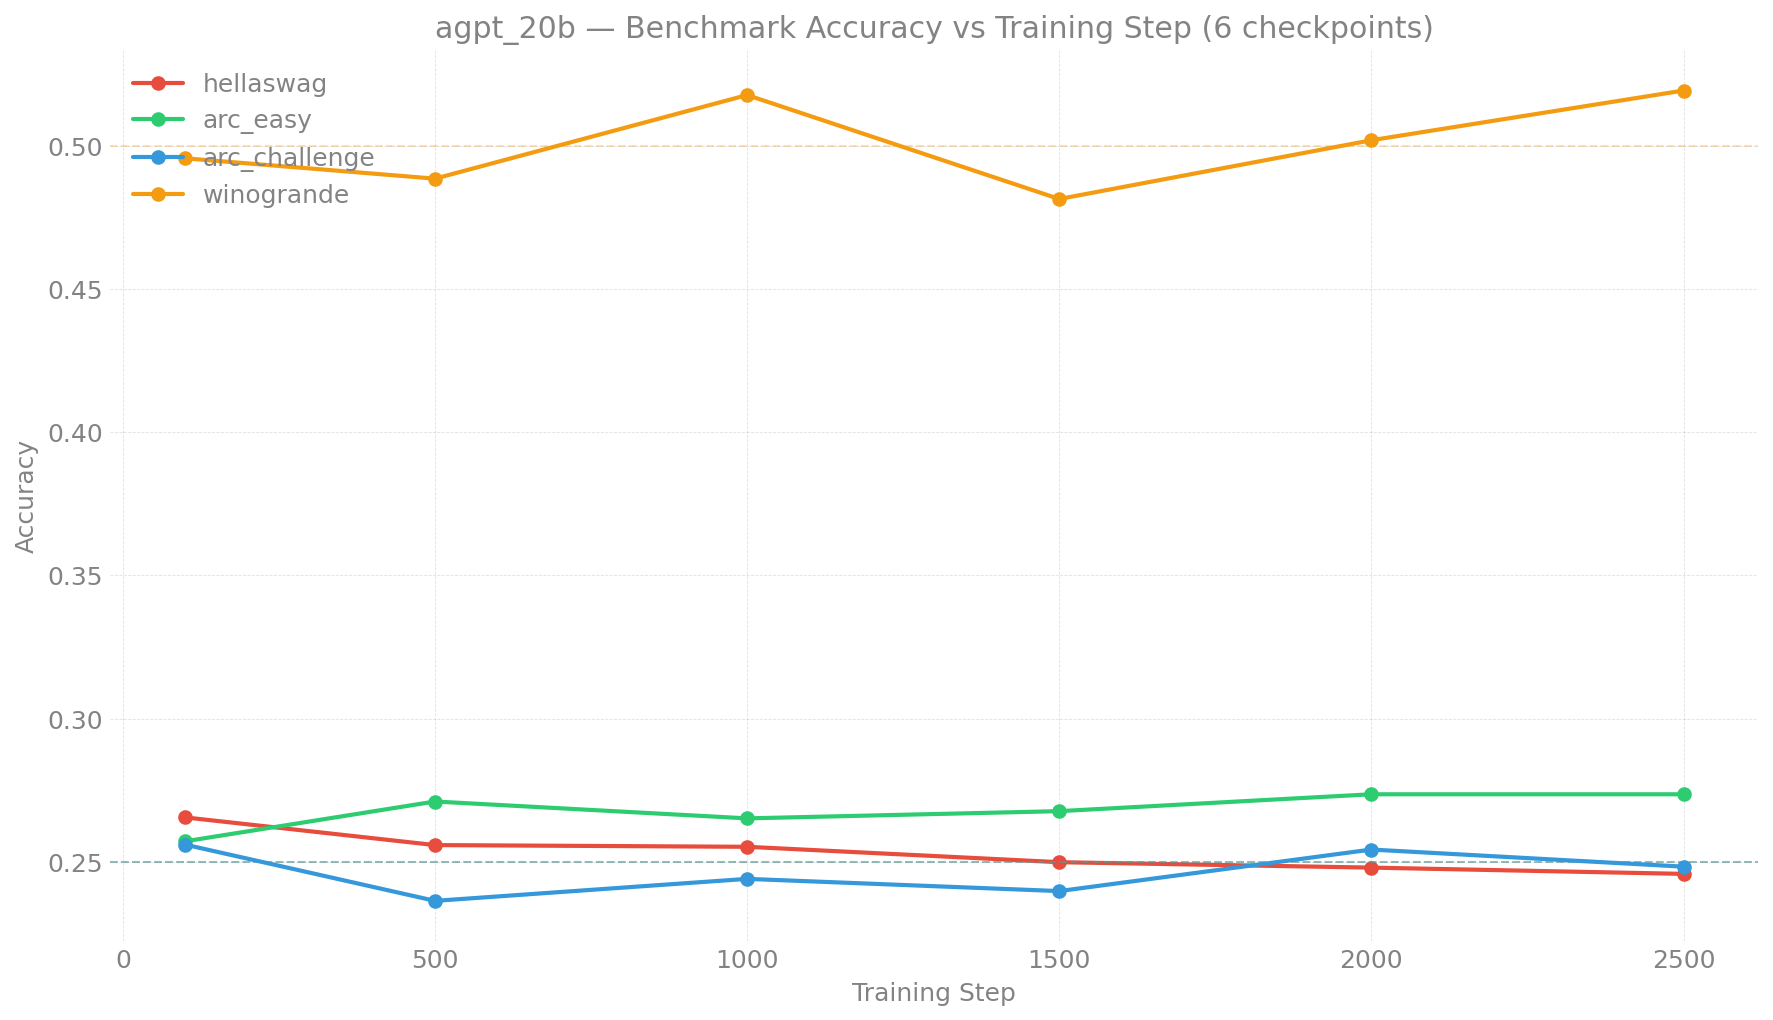
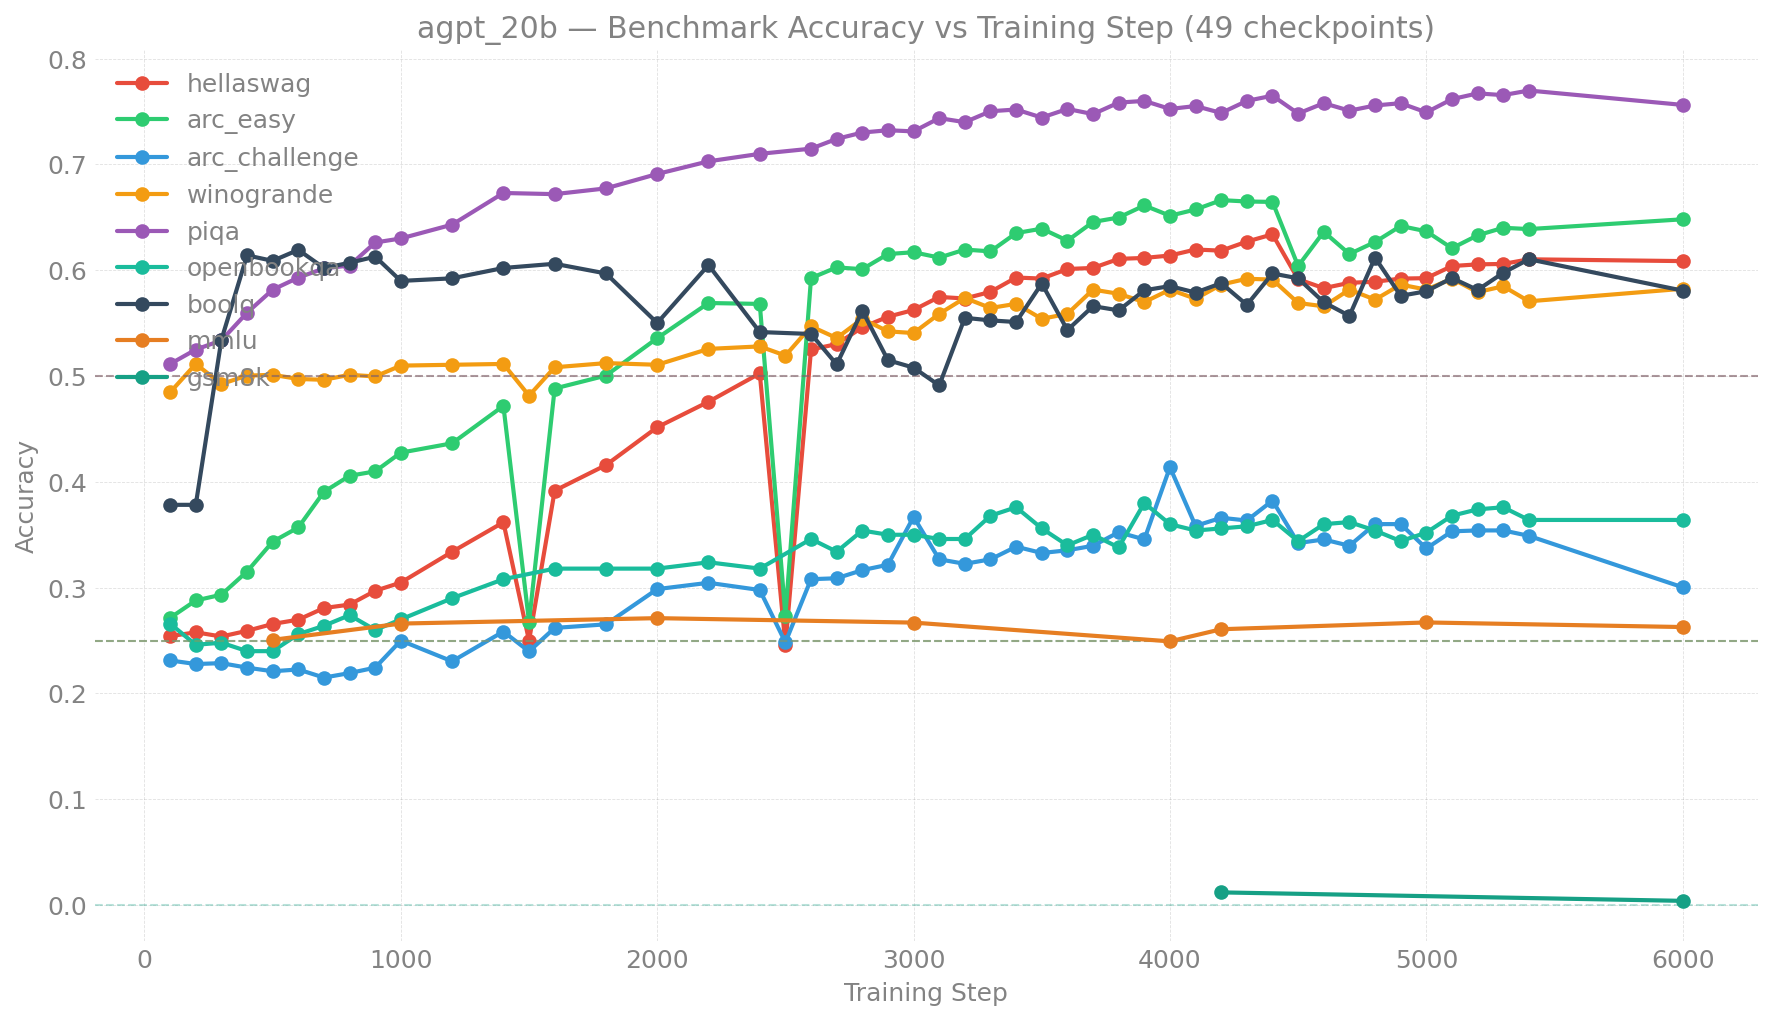
feat(ezpz/eval): aggregate_evals shows modern tasks (mmlu/gsm8k/arc_c)
The eval aggregator did not surface the modern suite: (1) it globbed only
agpt-{model}/ but the driver writes agpt-{model}-v2-{LABEL}/ (512n/256n);
(2) mmlu logs a mmlu aggregate PLUS ~57 mmlu_<subject> subtasks that swamped
the table. Fixes: load_results now merges the -v2-{LABEL} dirs; _read_one
skips mmlu_* subtasks (keeps the mmlu aggregate); add TASK_ORDER so the
table/plot show commonsense-then-modern order. Verified: 20b step-6000 now
renders mmlu=0.263 gsm8k=0.004 arc_challenge=0.300 alongside the commonsense
suite, no subtask noise. Regenerated eval_{2b,20b}.png.

diff --git a/torchtitan/experiments/ezpz/eval/aggregate_evals.py b/torchtitan/experiments/ezpz/eval/aggregate_evals.py
@@ -53,6 +53,22 @@ TASK_COLORS = {
     "gsm8k": "#16a085",
 }
 
+TASK_ORDER = [
+    # legacy commonsense dashboard
+    "hellaswag", "arc_easy", "arc_challenge", "winogrande",
+    "piqa", "openbookqa", "boolq",
+    # modern suite (2026-07 landscape review)
+    "mmlu", "gsm8k",
+]
+
+
+def _ordered_tasks(found):
+    """TASK_ORDER first (those present), then any extras alphabetically."""
+    present = [t for t in TASK_ORDER if t in found]
+    extras = sorted(t for t in found if t not in TASK_ORDER)
+    return present + extras
+
+
 RANDOM_BASELINES = {
     "hellaswag": 0.25,
     "arc_easy": 0.25,
@@ -73,6 +89,10 @@ def _read_one(path: Path) -> dict[str, float]:
     for task, m in d.items():
         if not isinstance(m, dict):
             continue
+        # mmlu logs a 'mmlu' aggregate PLUS ~57 'mmlu_<subject>' subtasks;
+        # keep only the aggregate so the table/plot are not swamped.
+        if task.startswith("mmlu_"):
+            continue
         acc = (m.get("acc_norm,none")
                or m.get("acc,none")
                or m.get("exact_match,strict-match")
@@ -84,14 +104,25 @@ def _read_one(path: Path) -> dict[str, float]:
 
 
 def load_results(model: str, evals_dir: Path) -> dict[int, dict[str, float]]:
-    """Load DCP-layout results (single sweep) keyed by training step."""
+    """Load DCP-layout results (single sweep) keyed by training step.
+
+    Reads the legacy agpt-{model}/ dir AND the per-trajectory
+    agpt-{model}-v2-{LABEL}/ dirs (e.g. -v2-512n, -v2-256n) where the
+    current driver writes. Per step, scores from all matching dirs are merged
+    (later dirs win on key collisions), so modern tasks (mmlu/gsm8k/arc_c)
+    that live in the -v2-{LABEL} dirs show up alongside the legacy suite.
+    """
     data: dict[int, dict[str, float]] = {}
-    base = evals_dir / f"agpt-{model}"
-    for step_dir in sorted(base.glob("step-*/results/results.json")):
-        step = int(step_dir.parent.parent.name.split("-")[1])
-        scores = _read_one(step_dir)
-        if scores:
-            data[step] = scores
+    bases = [evals_dir / f"agpt-{model}"]
+    bases += sorted(evals_dir.glob(f"agpt-{model}-v2-*"))
+    for base in bases:
+        if not base.is_dir():
+            continue
+        for step_dir in sorted(base.glob("step-*/results/results.json")):
+            step = int(step_dir.parent.parent.name.split("-")[1])
+            scores = _read_one(step_dir)
+            if scores:
+                data.setdefault(step, {}).update(scores)
     return data
 
 
@@ -295,7 +326,7 @@ def print_table(data: dict, model: str) -> None:
         print(f"\n## agpt_{model}: no results")
         return
 
-    tasks = sorted({t for s in data for t in data[s]})
+    tasks = _ordered_tasks({t for s in data for t in data[s]})
     header = "| Step | " + " | ".join(tasks) + " |"
     sep = "|------|" + "|".join(["------"] * len(tasks)) + "|"
     print(f"\n## agpt_{model} — {len(data)} checkpoints\n")
